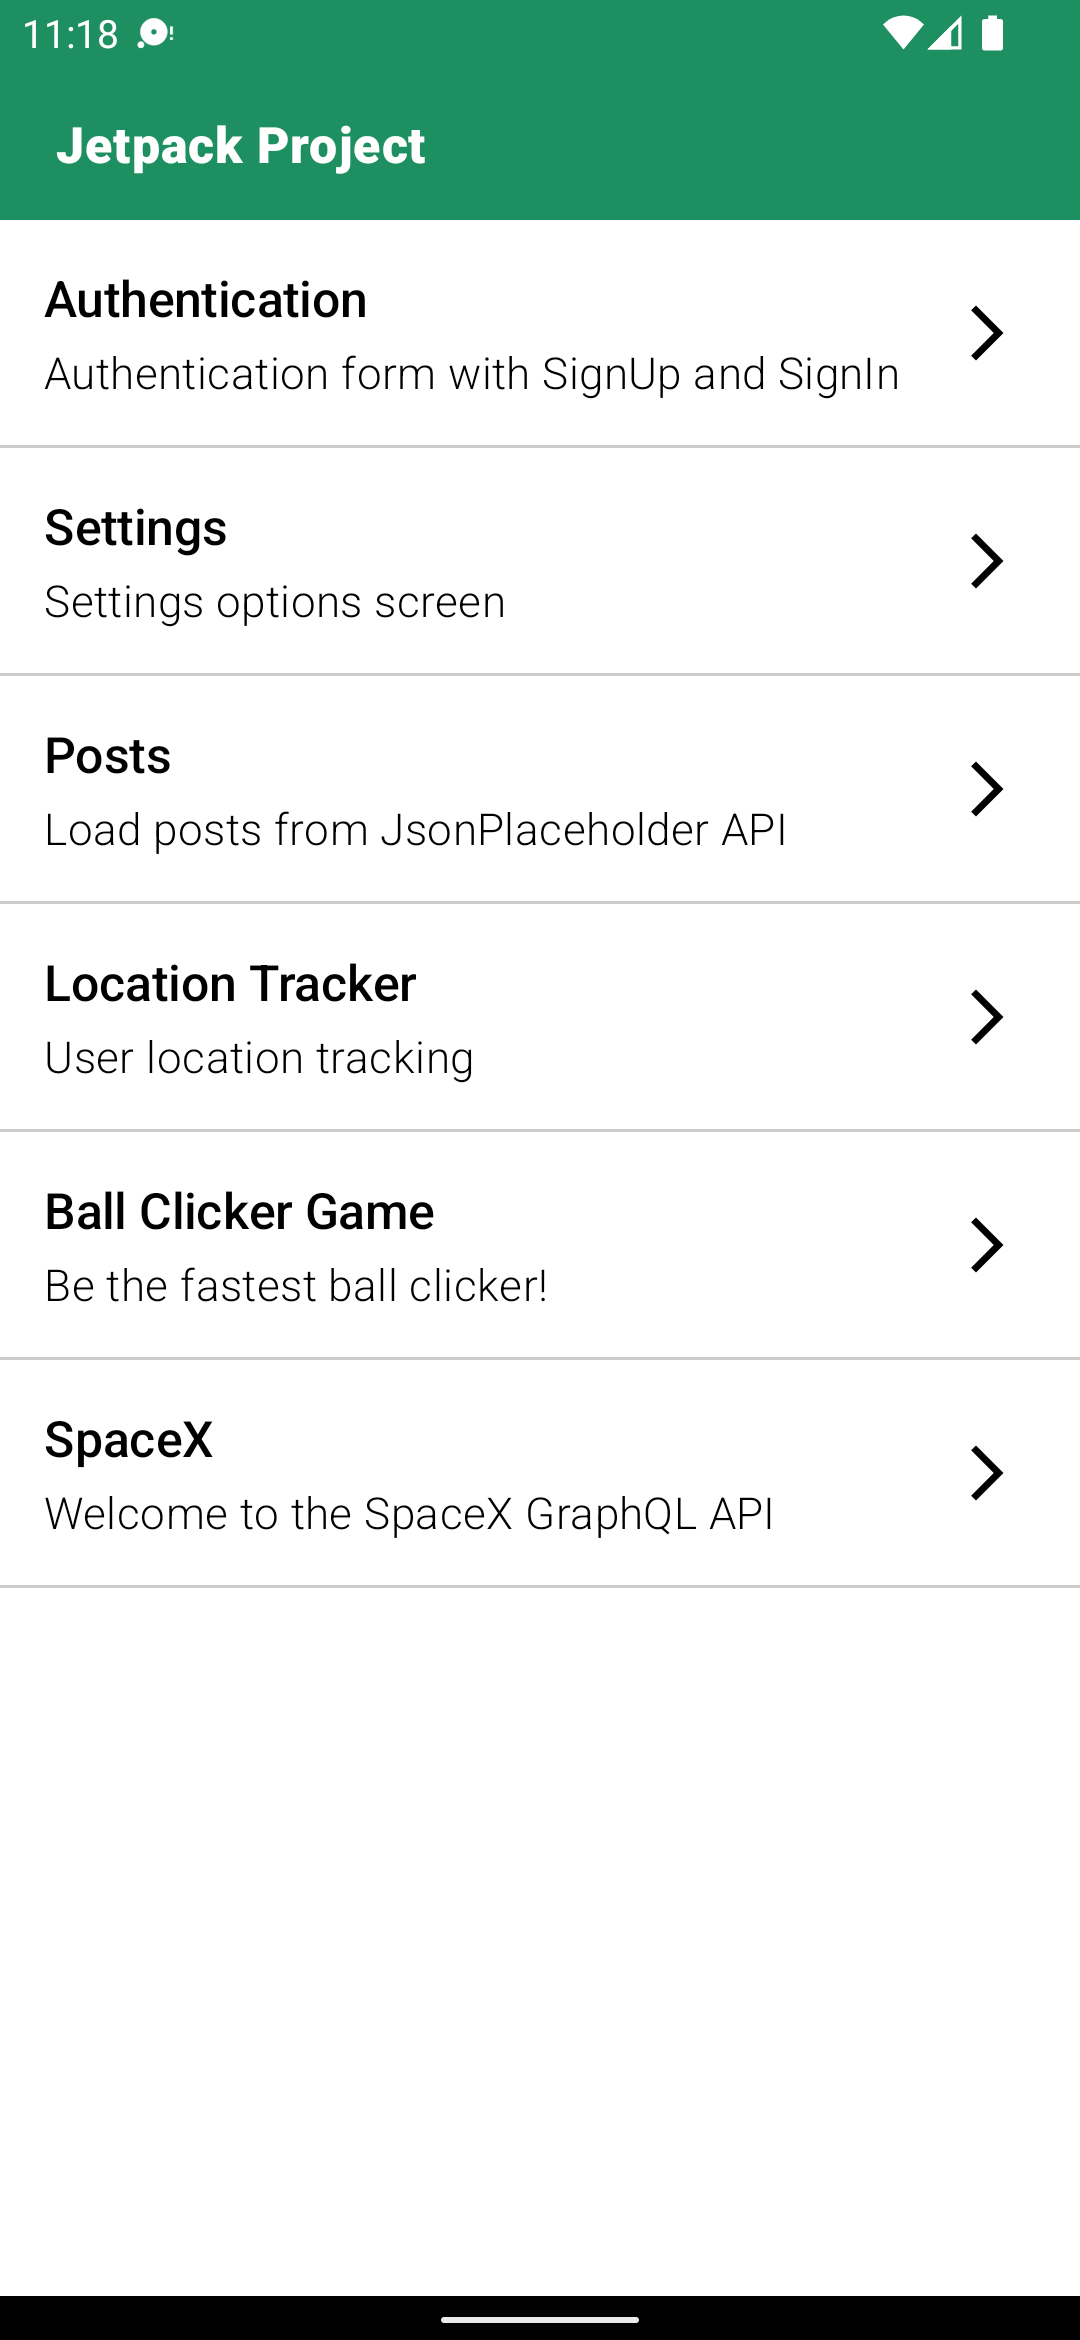
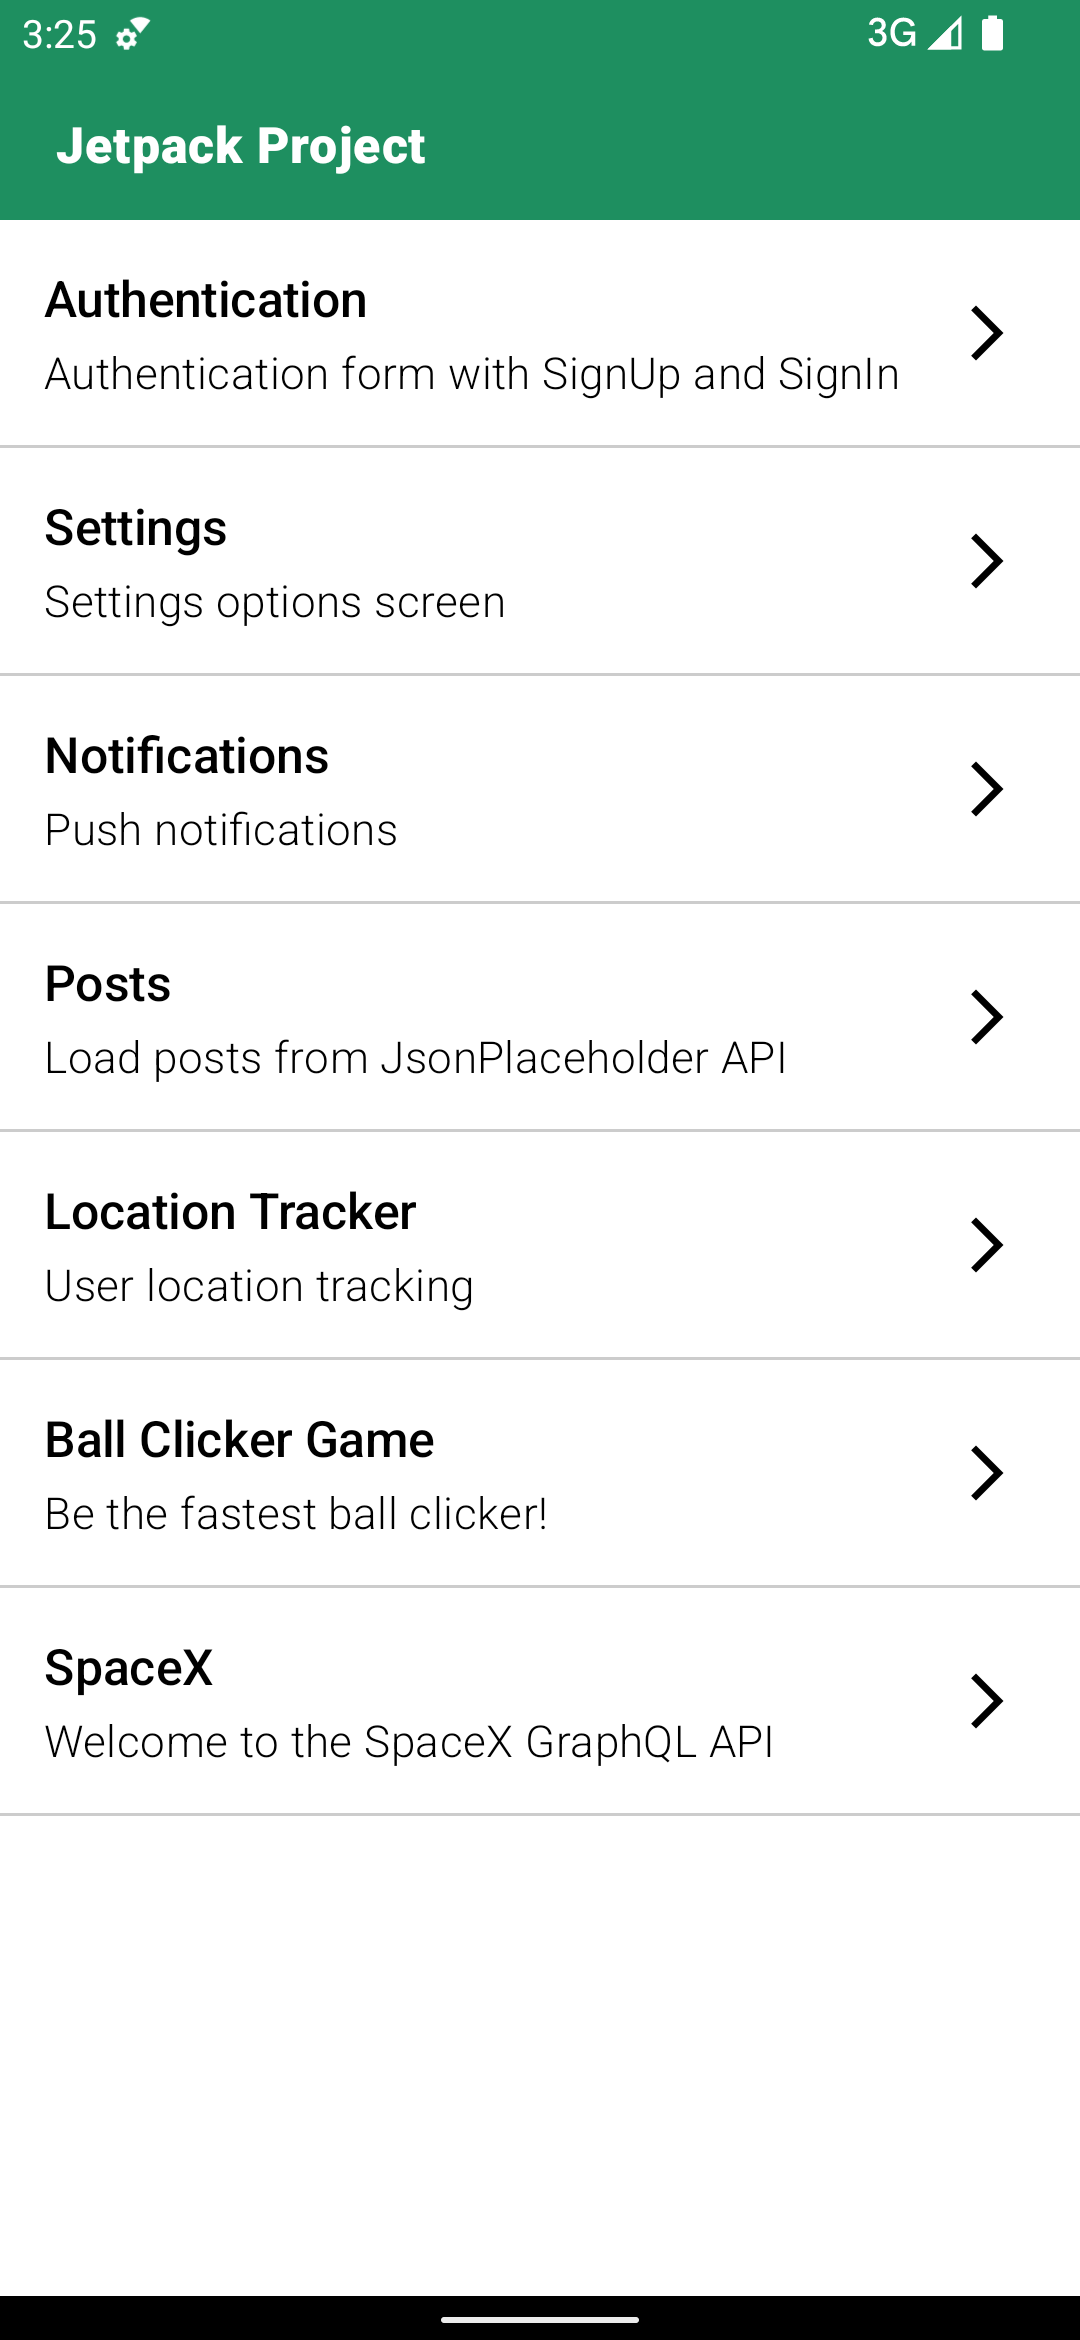
[feature/push_notifications] Update README file with notification screen

diff --git a/README.md b/README.md
@@ -32,6 +32,12 @@ Settings options screen
 
 <img alt="Settings screen" src="./docs/images/settings_screen.png" width="300" />
 
+## Notifications
+
+Push Notifications screen
+
+<img alt="Notifications screen" src="./docs/images/notifications.png" width="300" />
+
 ## Posts
 
 Load posts from JsonPlaceholder Rest API
